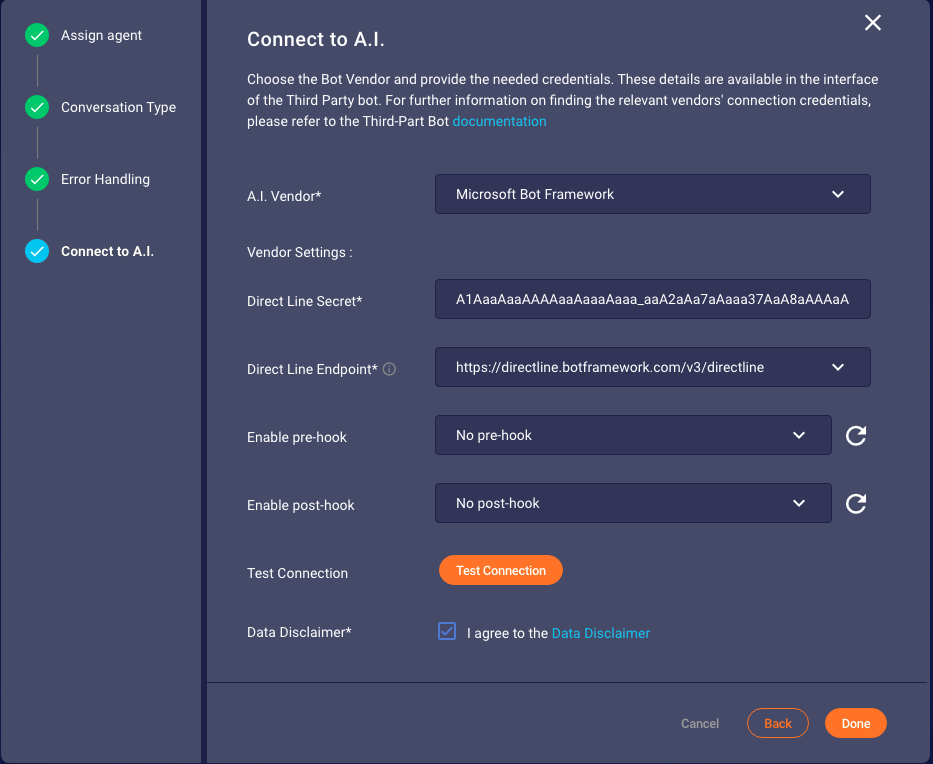
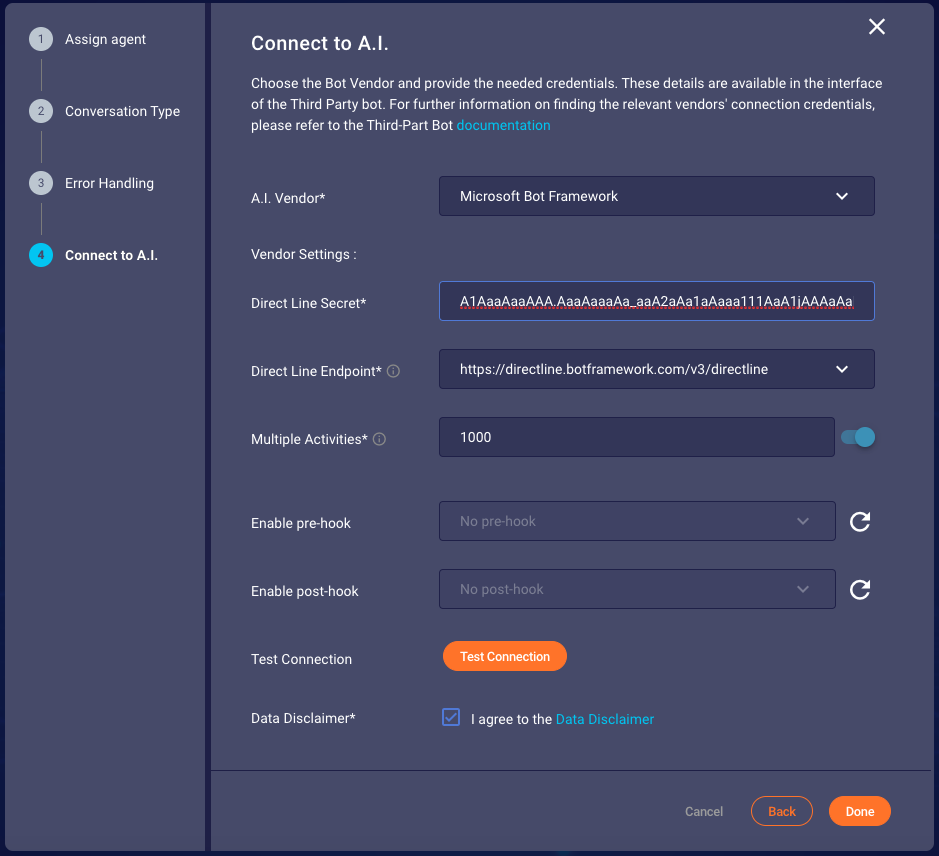
MS Bot: Describe the new Multiple Activities configuration

diff --git a/pages/documents/ConversationalAI/ThirdPartyBots/MicrosoftBotFramework.md b/pages/documents/ConversationalAI/ThirdPartyBots/MicrosoftBotFramework.md
@@ -45,8 +45,13 @@ The following Microsoft information should be provided to LivePerson:
   </tr>
   <tr>
     <td>Direct Line Endpoint</td>
-    <td>The endpoint the connector should use to reach the bot. Apart from the default you can also choose an endpoint that is close to the region that your account is configured for or use a custom endoint (experimental)</td>
+    <td>The endpoint the connector should use to reach the bot. Apart from the default you can also choose an endpoint that is close to the region that your account is configured for</td>
     <td>https://directline.botframework.com/v3/directline</td>
+  </tr>
+  <tr>
+    <td>Multiple Activities (Optional)</td>
+    <td>The connector normally only waits on the first response activity send by the bot and pass it to the customer. If you intent to send multiple activities with the same `ReplyToId` you need to activate this feature. The value describes the maximum time in milliseconds that is allowed to pass between two activities before. After this time the connector regards the request as handled</td>
+    <td>1000</td>
   </tr>
   </tbody>
 </table>
@@ -67,7 +72,7 @@ The Bot Connector utilizes the **channelData** property for anything besides pla
 It is expected that a bot responds to every message sent by the consumer.
 If no response is detected in a certain time frame, the Bot Connector assumes something is wrong and tries to transfer the conversation to an agent.
 
-Only the first activity with which a bot responds to a consumer request will be processed. If a bot sends further activities with the same `ReplyToId`, these activities will be ignored.
+If you want to want to reply with more than one message, you need to use the [multiMessage](#sending-multiple-responses) feature or configure the `Multiple Activities` option.
 
 ### Sending Rich Content (Structured Content)
 
